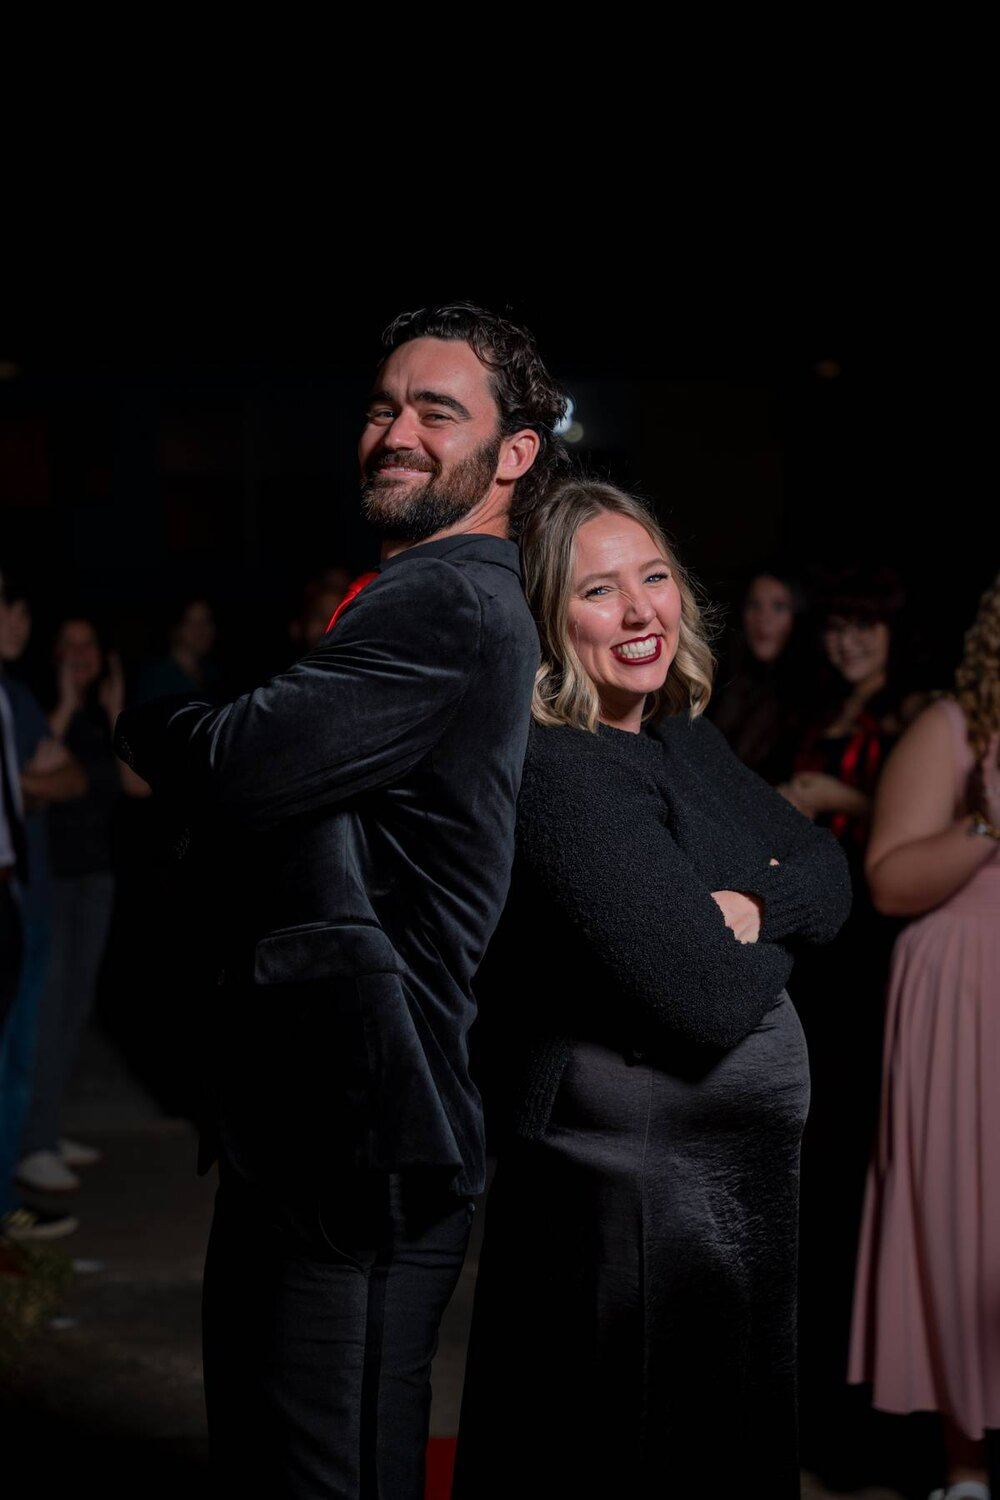
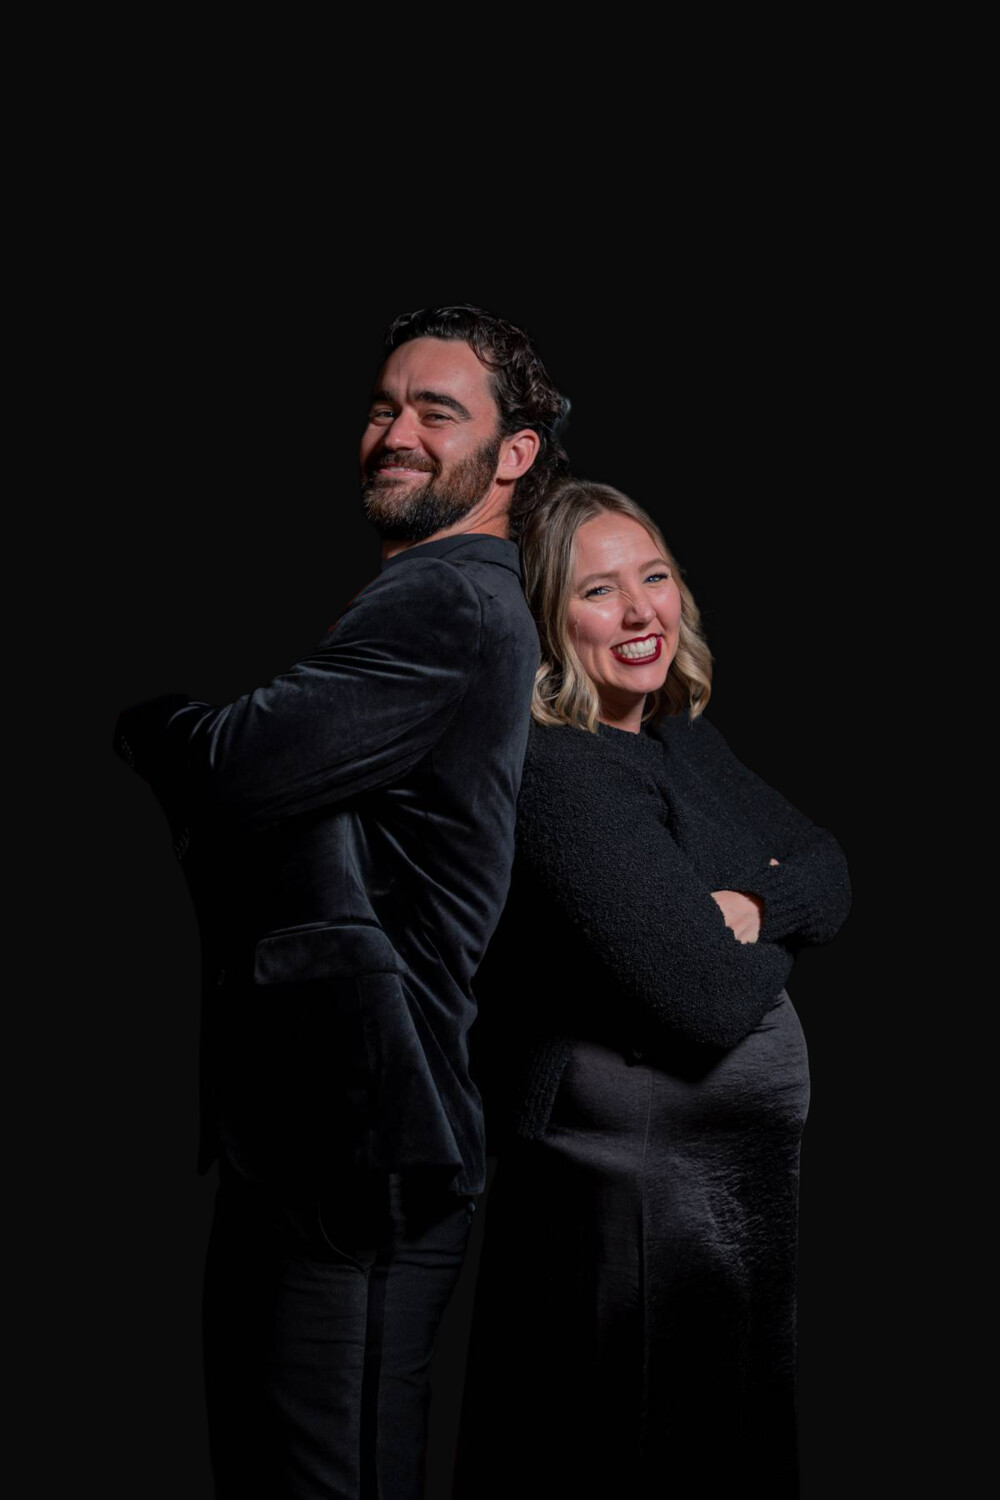
Speed: convert all images to WebP, lazy-load below-fold, videos preload nothing
Same visual quality; initial page weight roughly halved. Black contact page
redesign with seamless glam cutout also included.

diff --git a/index.html b/index.html
@@ -336,7 +336,7 @@
     </div>
     <div>
       <div class="hero-figure">
-        <img src="assets/family-cutout.webp" alt="The Caldwell family standing together">
+        <img fetchpriority="high" src="assets/family-cutout.webp" alt="The Caldwell family standing together">
         <div class="badge">Based in Florida · <span>Content that feels like home</span></div>
       </div>
       <p class="lead hero-caption">We create authentic, scroll-stopping videos and photos that make your brand feel like a trusted friend's recommendation — because that's exactly what it is.</p>
@@ -349,32 +349,32 @@
   <div class="wrap">
     <div class="reels">
       <div class="reel has-title">
-        <video src="assets/reel-1.mp4" poster="assets/reel-1-poster.jpg" playsinline preload="metadata" controlslist="noplaybackrate nodownload noremoteplayback" disableremoteplayback disablepictureinpicture></video>
+        <video src="assets/reel-1.mp4" poster="assets/reel-1-poster.webp" playsinline preload="none" controlslist="noplaybackrate nodownload noremoteplayback" disableremoteplayback disablepictureinpicture></video>
         <span class="reel-title">Fitness<br>UGC</span>
         <button class="play" aria-label="Play video" onclick="playReel(this.parentElement)"></button>
       </div>
       <div class="reel has-title">
-        <video src="assets/reel-2.mp4" poster="assets/reel-2-poster.jpg" playsinline preload="metadata" controlslist="noplaybackrate nodownload noremoteplayback" disableremoteplayback disablepictureinpicture></video>
+        <video src="assets/reel-2.mp4" poster="assets/reel-2-poster.webp" playsinline preload="none" controlslist="noplaybackrate nodownload noremoteplayback" disableremoteplayback disablepictureinpicture></video>
         <span class="reel-title">Caf&eacute;<br>UGC</span>
         <button class="play" aria-label="Play video" onclick="playReel(this.parentElement)"></button>
       </div>
       <div class="reel has-title">
-        <video src="assets/reel-6.mp4" poster="assets/reel-6-poster.jpg" playsinline preload="metadata" controlslist="noplaybackrate nodownload noremoteplayback" disableremoteplayback disablepictureinpicture></video>
+        <video src="assets/reel-6.mp4" poster="assets/reel-6-poster.webp" playsinline preload="none" controlslist="noplaybackrate nodownload noremoteplayback" disableremoteplayback disablepictureinpicture></video>
         <span class="reel-title">Outdoor<br>UGC</span>
         <button class="play" aria-label="Play video" onclick="playReel(this.parentElement)"></button>
       </div>
       <div class="reel has-title">
-        <video src="assets/reel-5.mp4" poster="assets/reel-5-poster.jpg" playsinline preload="metadata" controlslist="noplaybackrate nodownload noremoteplayback" disableremoteplayback disablepictureinpicture></video>
+        <video src="assets/reel-5.mp4" poster="assets/reel-5-poster.webp" playsinline preload="none" controlslist="noplaybackrate nodownload noremoteplayback" disableremoteplayback disablepictureinpicture></video>
         <span class="reel-title">Soda<br>UGC</span>
         <button class="play" onclick="playReel(this.parentElement)" aria-label="Play video"></button>
       </div>
       <div class="reel has-title">
-        <video src="assets/reel-4.mp4" poster="assets/reel-4-poster.jpg" playsinline preload="metadata" controlslist="noplaybackrate nodownload noremoteplayback" disableremoteplayback disablepictureinpicture></video>
+        <video src="assets/reel-4.mp4" poster="assets/reel-4-poster.webp" playsinline preload="none" controlslist="noplaybackrate nodownload noremoteplayback" disableremoteplayback disablepictureinpicture></video>
         <span class="reel-title">Protein<br>UGC</span>
         <button class="play" aria-label="Play video" onclick="playReel(this.parentElement)"></button>
       </div>
       <div class="reel has-title">
-        <video src="assets/reel-3.mp4" poster="assets/reel-3-poster.jpg" playsinline preload="metadata" controlslist="noplaybackrate nodownload noremoteplayback" disableremoteplayback disablepictureinpicture></video>
+        <video src="assets/reel-3.mp4" poster="assets/reel-3-poster.webp" playsinline preload="none" controlslist="noplaybackrate nodownload noremoteplayback" disableremoteplayback disablepictureinpicture></video>
         <span class="reel-title">Toy<br>UGC</span>
         <button class="play" aria-label="Play video" onclick="playReel(this.parentElement)"></button>
       </div>
@@ -387,10 +387,10 @@
   <div class="inner">
     <span class="lbl">Brands we've created content for</span>
     <span class="names">
-      <span class="logo-card"><img src="assets/logo-terra.png" alt="Terra by Battat"></span>
-      <span class="logo-card"><img src="assets/logo-naked.png" alt="Naked Nutrition"></span>
-      <span class="logo-card"><img src="assets/logo-zevia.png" alt="Zevia"></span>
-      <span class="logo-card dark"><img src="assets/logo-porch.png" alt="The Porch Health Bar"></span>
+      <span class="logo-card"><img loading="lazy" decoding="async" src="assets/logo-terra.webp" alt="Terra by Battat"></span>
+      <span class="logo-card"><img loading="lazy" decoding="async" src="assets/logo-naked.webp" alt="Naked Nutrition"></span>
+      <span class="logo-card"><img loading="lazy" decoding="async" src="assets/logo-zevia.webp" alt="Zevia"></span>
+      <span class="logo-card dark"><img loading="lazy" decoding="async" src="assets/logo-porch.webp" alt="The Porch Health Bar"></span>
       <span class="logo-card logo-text">FASTer&nbsp;Way</span>
     </span>
   </div>
@@ -400,8 +400,8 @@
 <section id="about">
   <div class="wrap about-grid">
     <div class="about-photo">
-      <img src="assets/family-kitchen.jpg" alt="The Caldwell family at home">
-      <img class="about-snap" src="assets/family-80s.jpg" alt="Jen and Colby in 80s workout costumes">
+      <img loading="lazy" decoding="async" src="assets/family-kitchen.webp" alt="The Caldwell family at home">
+      <img class="about-snap" src="assets/family-80s.webp" alt="Jen and Colby in 80s workout costumes">
     </div>
     <div class="about-body">
       <div class="eyebrow">Get to know us</div>

diff --git a/contact.html b/contact.html
@@ -26,7 +26,7 @@
   }
   *{box-sizing:border-box;margin:0;padding:0}
   html{scroll-behavior:smooth}
-  body{font-family:var(--sans);color:var(--ink);background:var(--cream);line-height:1.6;-webkit-font-smoothing:antialiased;overflow-x:hidden}
+  body{font-family:var(--sans);color:#EDEDEA;background:#0A0A0A;line-height:1.6;-webkit-font-smoothing:antialiased;overflow-x:hidden}
   h1,h2,h3{font-family:var(--serif);font-weight:700;line-height:1.1;letter-spacing:-0.02em}
   a{color:inherit;text-decoration:none}
   .wrap{max-width:1080px;margin:0 auto;padding:0 24px}
@@ -35,41 +35,42 @@
   .btn:hover{filter:brightness(1.05);transform:translateY(-2px)}
 
   /* NAV */
-  nav{position:sticky;top:0;z-index:50;background:rgba(252,252,250,.9);backdrop-filter:blur(10px);border-bottom:1px solid var(--line)}
+  nav{position:sticky;top:0;z-index:50;background:rgba(10,10,10,.88);backdrop-filter:blur(10px);border-bottom:1px solid #232323}
   nav .wrap{display:flex;align-items:center;justify-content:space-between;height:66px}
   .logo{font-family:var(--serif);font-size:1.25rem;font-weight:600}
   .logo span{color:var(--clay)}
   .navlinks{display:flex;gap:30px;align-items:center}
-  .navlinks a{font-size:.92rem;font-weight:500;color:var(--muted);transition:color .2s}
-  .navlinks a:hover{color:var(--ink)}
+  .navlinks a{font-size:.92rem;font-weight:500;color:#9C9C96;transition:color .2s}
+  .navlinks a:hover{color:#fff}
   .navlinks .btn{color:#fff}
   @media(max-width:760px){.navlinks a:not(.btn){display:none}}
 
   /* HERO */
-  .chero{background:var(--grad);color:#fff;text-align:center;padding:76px 24px 84px}
+  .chero{background:#0A0A0A;color:#fff;text-align:center;padding:66px 24px 30px}
   .chero h1{font-size:clamp(2.6rem,6vw,4.2rem);color:#fff;margin-bottom:14px}
   .chero p{color:rgba(255,255,255,.92);max-width:46ch;margin:0 auto;font-size:1.08rem}
 
   /* BODY GRID */
-  .cgrid{display:grid;grid-template-columns:.85fr 1.15fr;gap:52px;align-items:start;padding:72px 0}
-  .cgrid .photo{position:relative;aspect-ratio:4/5;border-radius:22px;overflow:hidden;border:1px solid var(--line);box-shadow:0 30px 60px -30px rgba(43,36,32,.35);margin-bottom:26px}
+  .cgrid{display:grid;grid-template-columns:.85fr 1.15fr;gap:52px;align-items:start;padding:30px 0 72px}
+  /* seamless: the photo's black backdrop IS the page — no frame, no edges */
+  .cgrid .photo{position:relative;aspect-ratio:4/5;overflow:hidden;margin-bottom:26px}
   .cgrid .photo img{width:100%;height:100%;object-fit:cover;display:block}
   .photo-caption{
     position:absolute;left:0;right:0;bottom:0;padding:54px 20px 20px;text-align:center;
-    background:linear-gradient(180deg,transparent,rgba(0,0,0,.62));color:#fff;
+    background:linear-gradient(180deg,transparent,rgba(10,10,10,.55) 55%,#0A0A0A);color:#fff;
     font-family:var(--serif);font-style:italic;font-weight:700;font-size:1.55rem;line-height:1.15;
     text-shadow:0 2px 14px rgba(0,0,0,.5);
   }
-  .photo-caption .small{
-    display:block;font-family:var(--sans);font-style:normal;font-weight:600;font-size:.68rem;
-    letter-spacing:.2em;text-transform:uppercase;opacity:.85;margin-bottom:6px;
+  .photo-brand{
+    position:absolute;top:14px;left:16px;color:#fff;font-family:var(--sans);font-weight:600;
+    font-size:.72rem;letter-spacing:.22em;text-transform:uppercase;opacity:.92;
   }
-  .cinfo h2{font-size:1.7rem;margin-bottom:12px}
-  .cinfo p{color:var(--muted);margin-bottom:20px}
+  .cinfo h2{font-size:1.7rem;margin-bottom:12px;color:#fff}
+  .cinfo p{color:#A6A6A0;margin-bottom:20px}
   .cmethods{display:flex;flex-direction:column;gap:10px}
-  .cmethods a{display:flex;align-items:center;gap:10px;font-size:.92rem;font-weight:500;color:var(--ink);background:var(--card);border:1px solid var(--line);border-radius:12px;padding:11px 15px;transition:border-color .2s,transform .15s}
-  .cmethods a:hover{border-color:var(--clay);transform:translateY(-2px)}
-  .cmethods a span{color:var(--muted);font-weight:400}
+  .cmethods a{display:flex;align-items:center;gap:10px;font-size:.92rem;font-weight:500;color:#EDEDEA;background:#141414;border:1px solid #262626;border-radius:12px;padding:11px 15px;transition:border-color .2s,transform .15s}
+  .cmethods a:hover{border-color:var(--sage);transform:translateY(-2px)}
+  .cmethods a span{color:#A6A6A0;font-weight:400}
 
   /* FORM */
   .cform{background:var(--card);border:1px solid var(--line);border-radius:22px;padding:34px 32px;box-shadow:0 30px 60px -34px rgba(43,36,32,.3)}
@@ -93,7 +94,7 @@
   .cform.sent .thanks{display:block}
   @media(max-width:820px){.cgrid{grid-template-columns:1fr;gap:38px;padding:48px 0}.row2{grid-template-columns:1fr}}
 
-  footer{text-align:center;padding:40px 24px;color:var(--muted);font-size:.85rem;border-top:1px solid var(--line)}
+  footer{text-align:center;padding:40px 24px;color:#8A8A84;font-size:.85rem;border-top:1px solid #1F1F1F}
   footer .logo{font-size:1.05rem;margin-bottom:6px}
   footer .logo span{color:var(--clay)}
 </style>
@@ -130,8 +131,9 @@
 <section class="wrap cgrid">
   <div class="cinfo">
     <div class="photo">
-      <img src="assets/family-glam.jpg" alt="Jen and Colby back to back, dressed up">
-      <div class="photo-caption"><span class="small">The Caldwell Creatives</span>Let's get creative.</div>
+      <img src="assets/family-glam.webp" alt="Jen and Colby back to back, dressed up">
+      <div class="photo-brand">The Caldwell Creatives</div>
+      <div class="photo-caption">Let's get creative.</div>
     </div>
     <h2>Say hello</h2>
     <p>Two easy ways to reach us — <strong>book a quick call</strong>, or fill out the form. Whatever's easiest for you.</p>
